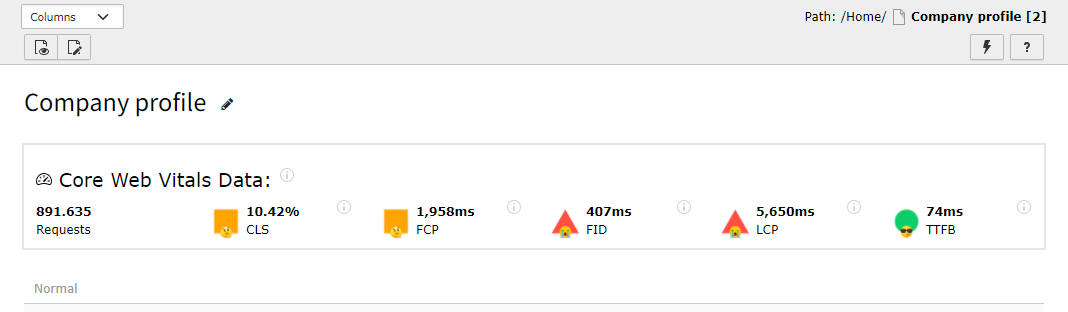
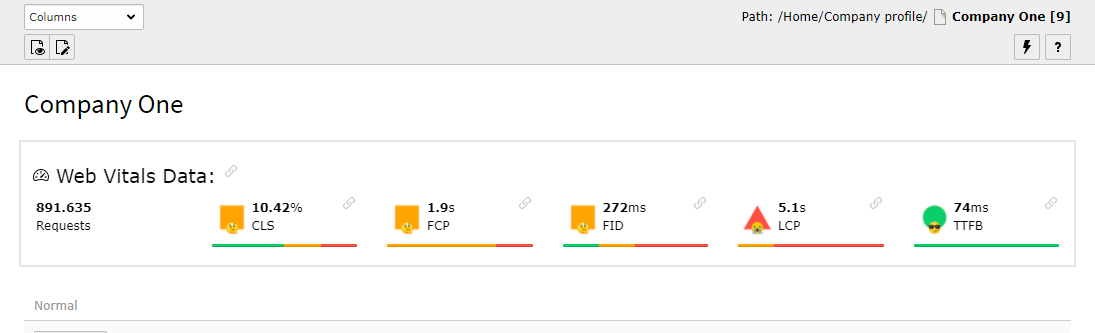
⚡✨ add index and percentages for web vitals

diff --git a/Resources/Private/Templates/PageHeaderHook.html b/Resources/Private/Templates/PageHeaderHook.html
@@ -24,17 +24,17 @@
   valueYellow: 10,
   valueRed: 25,
   unit: '%',
-  decimals: 2
+  decimals: 1
   }"/>
   <f:render section="ValueCard" arguments="{
   value: fcp,
   title: 'FCP',
   tooltip: 'First Contentful Paint',
   link: 'https://web.dev/fcp/',
-  valueYellow: 1000,
-  valueRed: 3000,
-  unit: 'ms',
-  decimals: 0
+  valueYellow: 1,
+  valueRed: 3,
+  unit: 's',
+  decimals: 1
   }"/>
   <f:render section="ValueCard" arguments="{
   value: fid,
@@ -51,10 +51,10 @@
   title: 'LCP',
   tooltip: 'Largest Contentful Paint',
   link: 'https://web.dev/lcp/',
-  valueYellow: 2500,
-  valueRed: 4000,
-  unit: 'ms',
-  decimals: 0
+  valueYellow: 2.5,
+  valueRed: 4,
+  unit: 's',
+  decimals: 1
   }"/>
   <f:render section="ValueCard" arguments="{
   value: ttfb,
@@ -72,12 +72,12 @@
 <f:section name="ValueCard">
   <div class="col-sm-2 webvitalstracker-card" title="{tooltip}">
     <span class="webvitalstracker-statusIcon">
-      <f:if condition="{value} < {valueYellow}">
+      <f:if condition="{value.avg} < {valueYellow}">
         <f:then>
           <span class="webvitalstracker-status-icon webvitalstracker-status-green"></span>
         </f:then>
         <f:else>
-          <f:if condition="{value} < {valueRed}">
+          <f:if condition="{value.avg} < {valueRed}">
             <f:then>
               <span class="webvitalstracker-status-icon webvitalstracker-status-yellow"></span>
             </f:then>
@@ -89,9 +89,16 @@
     </span>
     <span style="float: right"><f:render section="InfoIcon" arguments="{link: link}"/></span>
     <p>
-      <strong>{value -> f:format.number(decimals: decimals)}{unit}</strong><br>
+      <strong>{value.avg -> f:format.number(decimals: decimals)}</strong>{unit}<br>
       {title}
     </p>
+    <f:if condition="{value.low} || {value.medium} || {value.high}">
+      <div class="progress" style="height: 3px;">
+        <div class="progress-bar webvitalstracker-progress-green" role="progressbar" style="width: {value.low * 100}%" aria-valuenow="{value.low * 100}" aria-valuemin="0" aria-valuemax="100"></div>
+        <div class="progress-bar webvitalstracker-progress-yellow" role="progressbar" style="width: {value.medium * 100}%" aria-valuenow="{value.medium * 100}" aria-valuemin="0" aria-valuemax="100"></div>
+        <div class="progress-bar webvitalstracker-progress-red" role="progressbar" style="width: {value.high * 100}%" aria-valuenow="{value.high * 100}" aria-valuemin="0" aria-valuemax="100"></div>
+      </div>
+    </f:if>
   </div>
 </f:section>
 

diff --git a/Resources/Public/Css/DrawHeaderHook.css b/Resources/Public/Css/DrawHeaderHook.css
@@ -31,6 +31,18 @@
   background-position: -1.25% 0;
 }
 
+.webvitalstracker-progress-green {
+  background-color: #0bce6a;
+}
+
+.webvitalstracker-progress-yellow {
+  background-color: #ffa401;
+}
+
+.webvitalstracker-progress-red {
+  background-color: #ff4e42;
+}
+
 .webvitalstracker-showOnHoverRoot .webvitalstracker-showOnHover {
   opacity: 20%;
   transition: opacity var(--webvitalstracker-transition-time);

diff --git a/Classes/Domain/Repository/MeasureRepository.php b/Classes/Domain/Repository/MeasureRepository.php
@@ -12,6 +12,14 @@ use TYPO3\CMS\Core\Utility\GeneralUtility;
 final class MeasureRepository
 {
     public const TABLENAME = 'tx_webvitalstracker_measure';
+    public const WEB_VITALS = ['cls', 'fcp', 'fid', 'lcp', 'ttfb'];
+    public const WEB_VITALS_ZONES = [
+        'cls' => [0.1, 0.25],
+        'fcp' => [1000, 3000],
+        'fid' => [100, 300],
+        'lcp' => [2500, 4000],
+        'ttfb' => [100, 600],
+    ];
 
     private ConnectionPool $connectionPool;
 
@@ -22,30 +30,60 @@ final class MeasureRepository
 
     /**
      * @param int $pageId
-     * @param int|null $sysLanguageUid
-     * @return array<int, array<string, mixed>>|null
+     * @return array<string, mixed>|null
      * @throws \Doctrine\DBAL\Exception
      */
-    public function findData(int $pageId, ?int $sysLanguageUid = null): ?array
+    public function findData(int $pageId): ?array
     {
         $queryBuilder = $this->connectionPool->getQueryBuilderForTable(self::TABLENAME)->getConcreteQueryBuilder();
         $queryBuilder->select(
             'COUNT(*) as requestCount',
             'AVG(cls)*100 as cls',
-            'AVG(fcp) as fcp',
+            'AVG(fcp)/1000 as fcp',
             'AVG(fid) as fid',
-            'AVG(lcp) as lcp',
+            'AVG(lcp)/1000 as lcp',
             'AVG(ttfb) as ttfb',
         )->from(self::TABLENAME)
             ->where($queryBuilder->expr()->eq('page_id', $queryBuilder->createNamedParameter($pageId)))
             ->groupBy('page_id');
 
-        if ($sysLanguageUid !== null) {
-            $queryBuilder->andWhere($queryBuilder->expr()->eq('sys_language', $queryBuilder->createNamedParameter($sysLanguageUid)));
-        }
         $statement = $queryBuilder->execute();
         assert($statement instanceof Statement);
         return $statement->fetch() ?: null;
+    }
+
+    /**
+     * @param int $pageId
+     * @return array<string, array<string, float>>
+     */
+    public function findPercentageData(int $pageId): array
+    {
+        $results = [];
+        foreach (self::WEB_VITALS as $webVital) {
+            [$low, $mid] = self::WEB_VITALS_ZONES[$webVital];
+            $queryBuilder = $this->connectionPool->getQueryBuilderForTable(self::TABLENAME)->getConcreteQueryBuilder();
+            $queryBuilder->from(self::TABLENAME)
+                ->select(
+                    'COUNT(*) as count',
+                    "IF($webVital >= $low, IF($webVital >= $mid, 'high', 'medium'), 'low') as cat"
+                )
+                ->where($queryBuilder->expr()->eq('page_id', $queryBuilder->createNamedParameter($pageId)))
+                ->andWhere($queryBuilder->expr()->isNotNull($webVital))
+                ->groupBy('cat');
+            $statement = $queryBuilder->execute();
+            assert($statement instanceof Statement);
+            $rows = $statement->fetchAll() ?: [];
+            $total = array_sum(array_column($rows, 'count'));
+            $results[$webVital] = [
+                'low' => 0.0,
+                'medium' => 0.0,
+                'high' => 0.0,
+            ];
+            foreach ($rows as $row) {
+                $results[$webVital][(string)$row['cat']] = (float)($row['count'] / $total);
+            }
+        }
+        return $results;
     }
 
     /**
@@ -53,9 +91,8 @@ final class MeasureRepository
      */
     public function insertOrUpdateMeasure(string $uuid, string $name, float $value, int $counter, int $pageUid, int $sysLanguageUid): void
     {
-        $possibleNames = ['cls', 'fcp', 'fid', 'lcp', 'ttfb'];
-        if (!in_array($name, $possibleNames, true)) {
-            throw new InvalidArgumentException(sprintf('measure name must be one of %s got %s', implode(',', $possibleNames), $name));
+        if (!in_array($name, self::WEB_VITALS, true)) {
+            throw new InvalidArgumentException(sprintf('measure name must be one of %s got %s', implode(',', self::WEB_VITALS), $name));
         }
         $queryBuilder = $this->connectionPool->getQueryBuilderForTable(self::TABLENAME);
         $sql = $queryBuilder->insert(self::TABLENAME)

diff --git a/Classes/Command/GenerateRandomTestDataCommand.php b/Classes/Command/GenerateRandomTestDataCommand.php
@@ -4,6 +4,8 @@ declare(strict_types=1);
 
 namespace Kanti\WebVitalsTracker\Command;
 
+use Doctrine\DBAL\Driver\Statement;
+use Doctrine\DBAL\FetchMode;
 use Kanti\WebVitalsTracker\Domain\Repository\MeasureRepository;
 use Symfony\Component\Console\Command\Command;
 use Symfony\Component\Console\Helper\ProgressBar;
@@ -28,7 +30,7 @@ final class GenerateRandomTestDataCommand extends Command
     public function execute(InputInterface $input, OutputInterface $output): int
     {
         $count = 1_000_000;
-        $pageUid = 1;
+        $pageUids = $this->getPageUids();
         $sysLanguageUid = 0;
         $daysBack = 90;
 
@@ -41,13 +43,13 @@ final class GenerateRandomTestDataCommand extends Command
                 ->values(
                     [
                         'uuid' => $uuid,
-                        'page_id' => $pageUid,
+                        'page_id' => $pageUids[array_rand($pageUids)],
                         'sys_language' => $sysLanguageUid,
-                        'cls' => random_int(0, 1 * 100) / 100,
-                        'fcp' => random_int(0, 10_000 * 100) / 100,
-                        'fid' => random_int(0, 10_000 * 100) / 100,
-                        'lcp' => random_int(0, 10_000 * 100) / 100,
-                        'ttfb' => random_int(0, 10_000 * 100) / 100,
+                        'cls' => random_int(0, (int)(MeasureRepository::WEB_VITALS_ZONES['cls'][1] * 2 * 100)) / 100,
+                        'fcp' => random_int(0, MeasureRepository::WEB_VITALS_ZONES['fcp'][1] * 2 * 100) / 100,
+                        'fid' => random_int(0, MeasureRepository::WEB_VITALS_ZONES['fid'][1] * 2 * 100) / 100,
+                        'lcp' => random_int(0, MeasureRepository::WEB_VITALS_ZONES['lcp'][1] * 2 * 100) / 100,
+                        'ttfb' => random_int(0, MeasureRepository::WEB_VITALS_ZONES['ttfb'][1] * 2 * 100) / 100,
                         'date' => date("Y-m-d H:i:s", random_int(time() - ($daysBack * 24 * 60 * 60), time())),
                     ]
                 )->execute();
@@ -55,5 +57,19 @@ final class GenerateRandomTestDataCommand extends Command
         }
         $progressBar->finish();
         return 0;
+    }
+
+    /**
+     * @return array<int, int>
+     */
+    private function getPageUids(): array
+    {
+        $queryBuilder = $this->connectionPool->getQueryBuilderForTable('pages');
+        $statement = $queryBuilder->select('uid')
+            ->from('pages')
+            ->andWhere($queryBuilder->expr()->eq('sys_language_uid', 0))
+            ->execute();
+        assert($statement instanceof Statement);
+        return $statement->fetchAll(FetchMode::COLUMN);
     }
 }

diff --git a/Classes/Hooks/PageHeaderHook.php b/Classes/Hooks/PageHeaderHook.php
@@ -44,13 +44,23 @@ final class PageHeaderHook
         }
 
         $data = $this->measureRepository->findData($pageId);
-        if (empty($data)) {
+        if (!$data) {
             return '';
         }
+        $requestCount = $data['requestCount'];
+        unset($data['requestCount']);
+        $percentages = [];
+        if ($requestCount <= 40_000) {
+            $percentages = $this->measureRepository->findPercentageData($pageId);
+        }
+        foreach ($data as $webVital => $average) {
+            $percentages[$webVital]['avg'] = $average;
+        }
+        $percentages['requestCount'] = $requestCount;
 
         $this->pageRenderer->addCssFile('EXT:web_vitals_tracker/Resources/Public/Css/DrawHeaderHook.css');
 
-        $this->templateView->assignMultiple($data);
+        $this->templateView->assignMultiple($percentages);
 
         return $this->templateView->render();
     }

diff --git a/README.md b/README.md
@@ -51,12 +51,9 @@ after 1_000_000 requests MySQL gets pretty slow (1,2s on my Laptop)
 
 ## What I want to do 🗓
 
-- make it compatible with TYPO3 9 and 10
-- make it compatible with php 7.2? 7.3? 7.4!
+- make it compatible with php 7.2? 7.3?
 - save the requests of elder data in aggregate form (to allow large websites to use it)
 - add a Dashboard Component
-- release into the TER
-- [auto release int the TER](https://gist.github.com/einpraegsam/cefeb79a6904e113d208363a4d8aa418)
 
 ## Author 🚶♂
 
